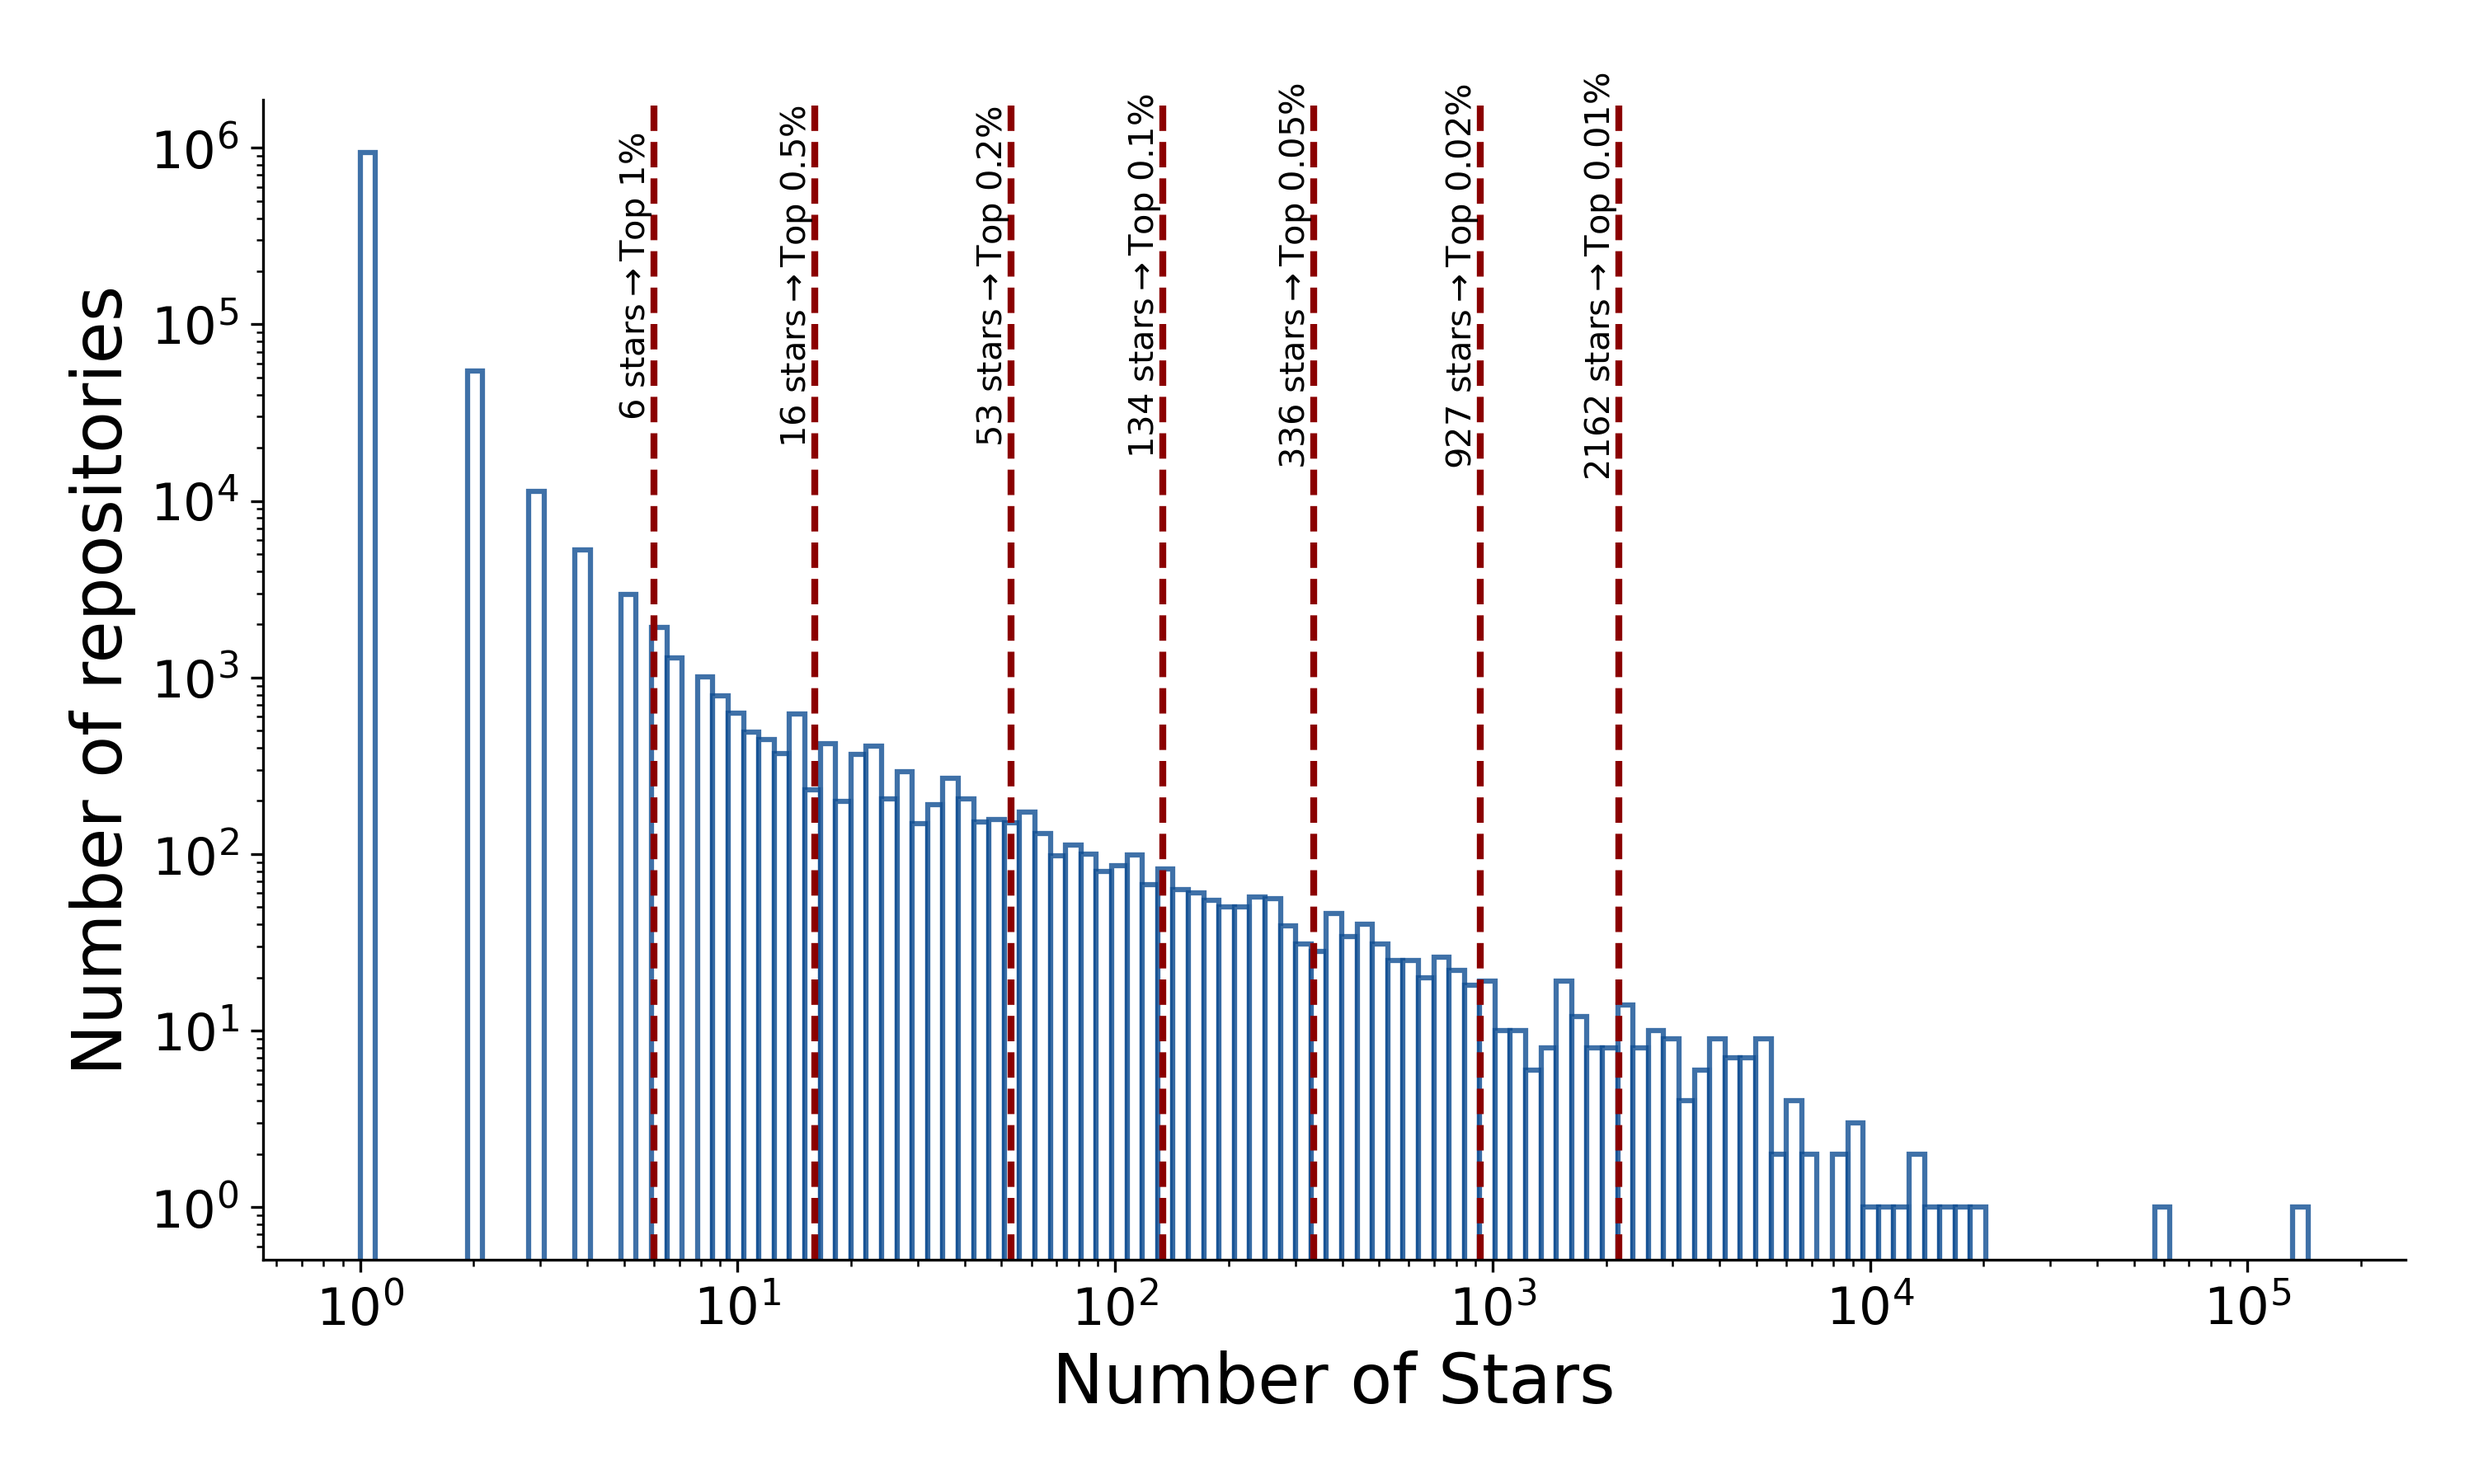
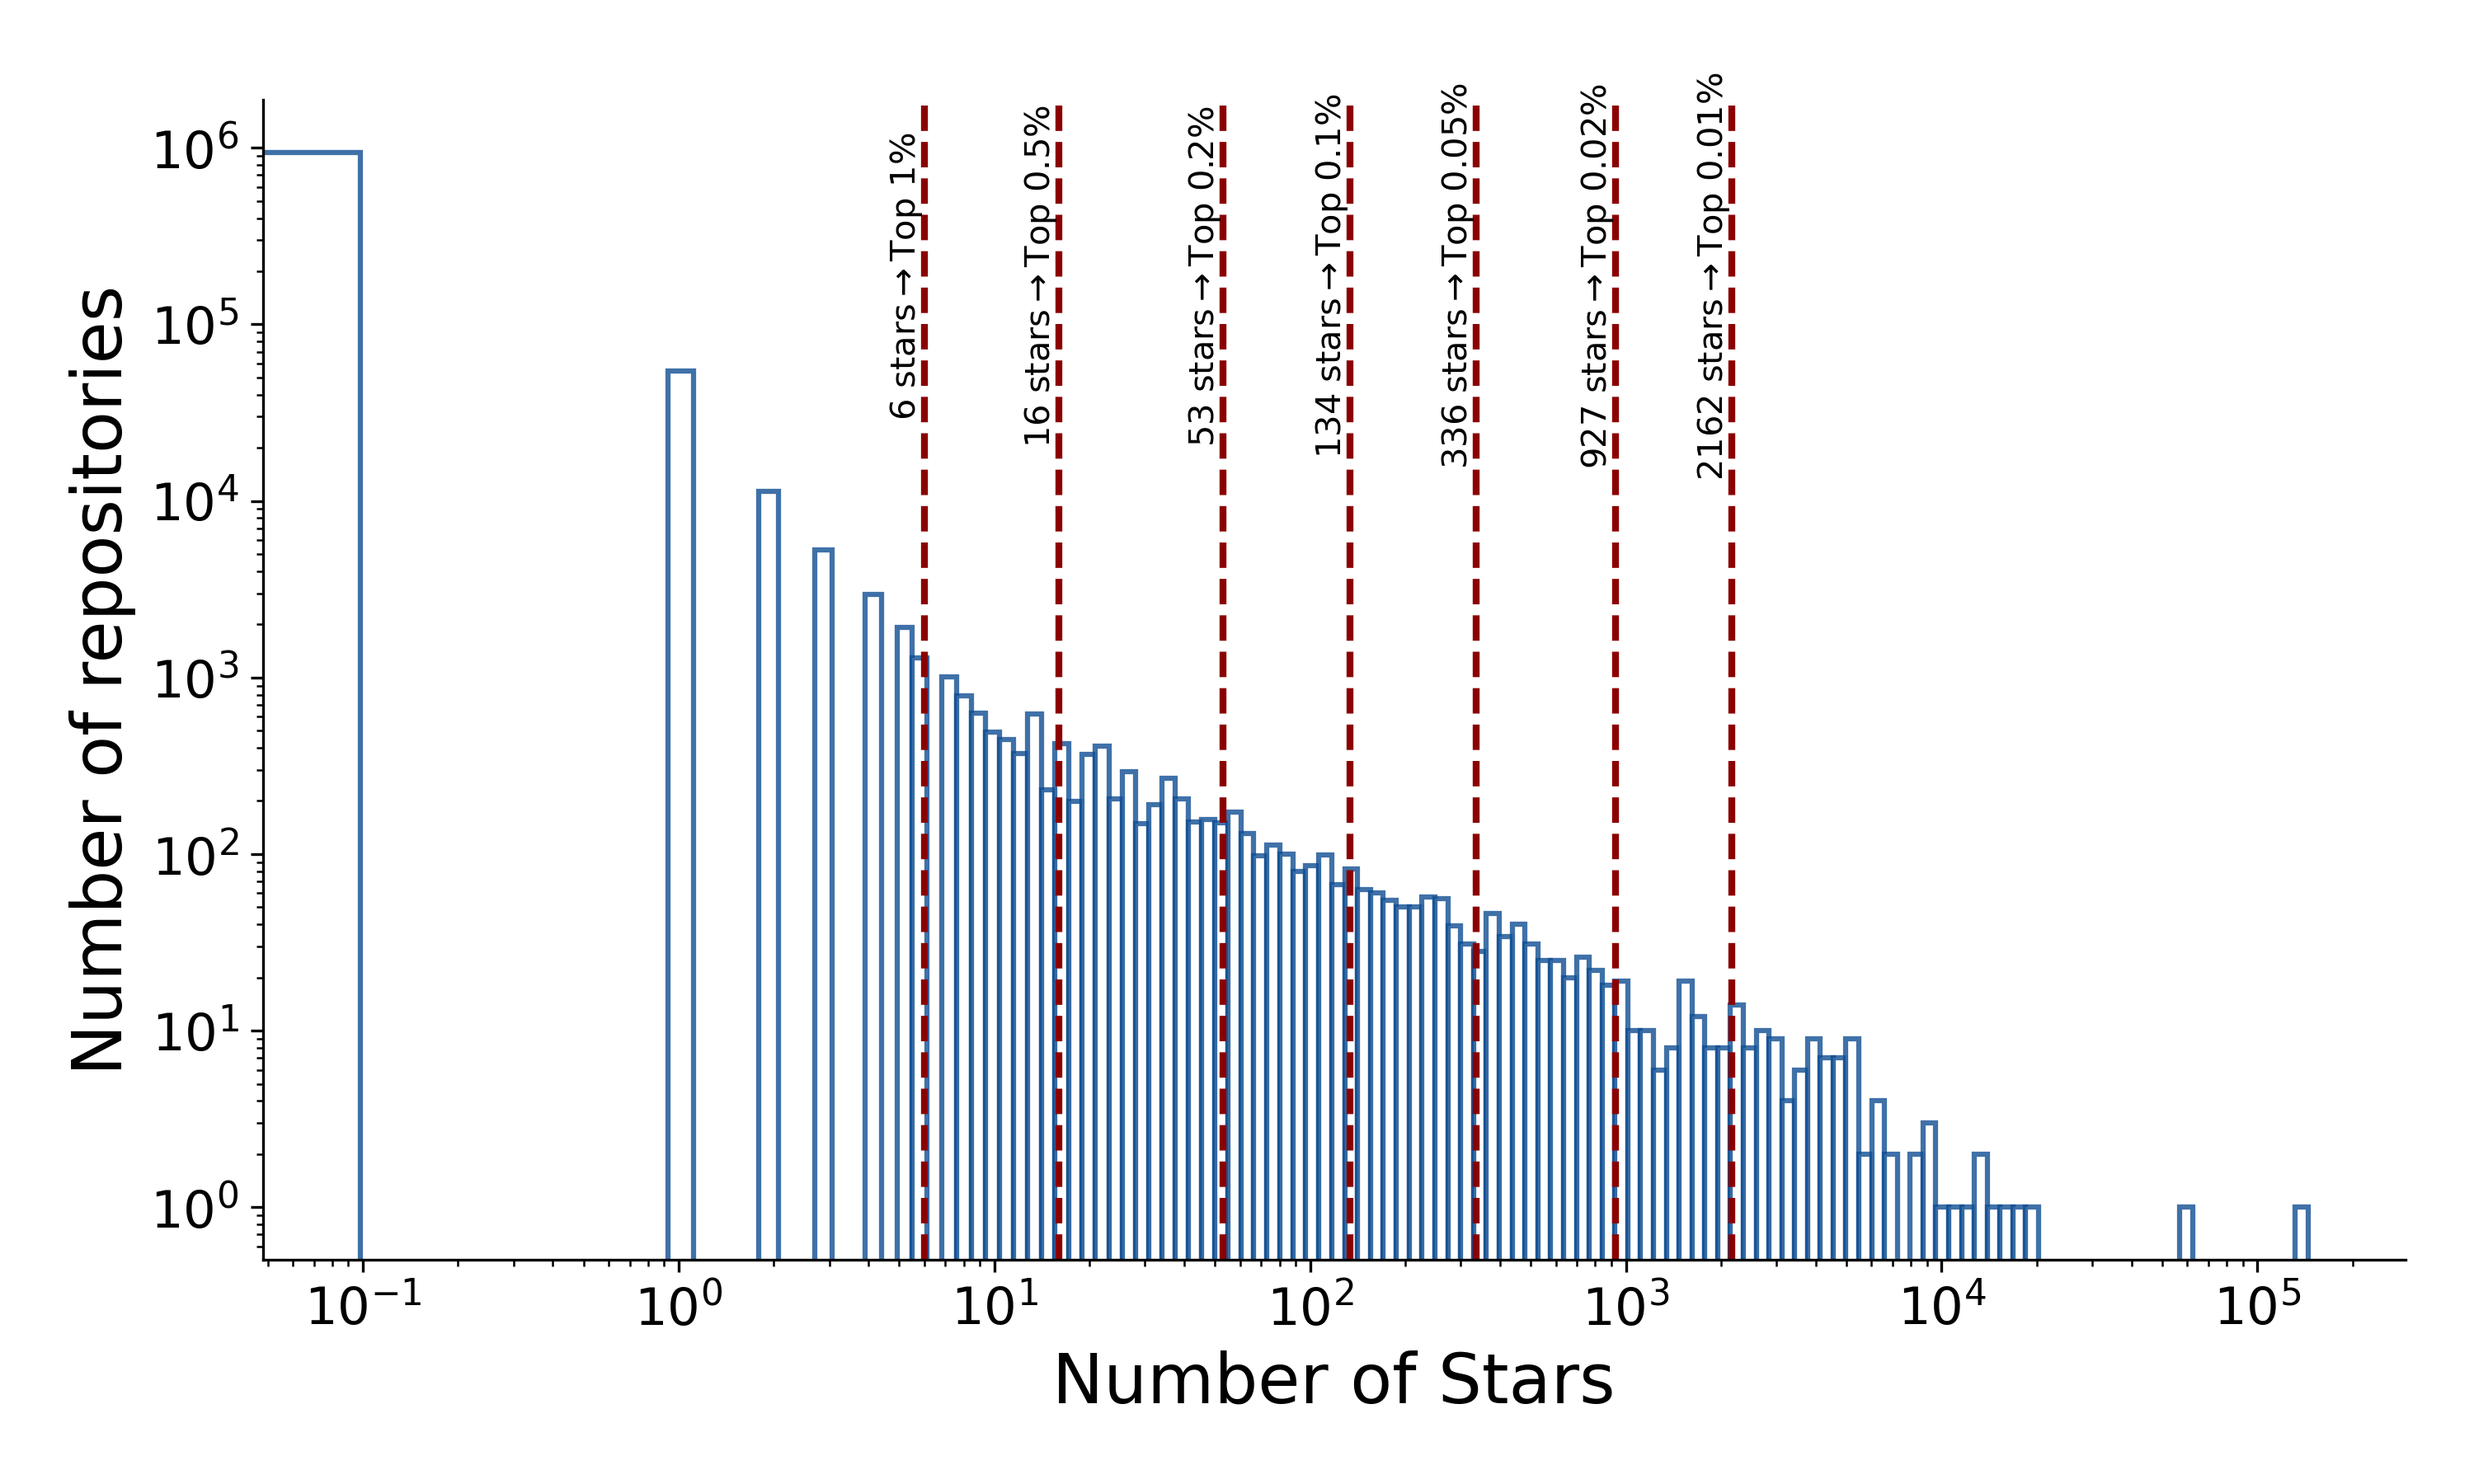
minor correction on plotting

diff --git a/plot_histogram.py b/plot_histogram.py
@@ -25,9 +25,8 @@ def plot_star_distribution(stars, save_path):
     ax.spines['right'].set_visible(False)
 
     stars_plus1 = stars + 1
-
-    bins = np.logspace(np.log10(stars_plus1.min()), np.log10(stars_plus1.max()), 128)
-    ax.hist(stars_plus1, bins=bins, color='white', edgecolor='#0F4D92', linewidth=1.5, alpha=0.8)
+    bins_plus1 = np.logspace(np.log10(stars_plus1.min()), np.log10(stars_plus1.max()), 128)
+    ax.hist(stars, bins=bins_plus1 - 1, color='white', edgecolor='#0F4D92', linewidth=1.5, alpha=0.8)
     ax.set_xscale('log')
     ax.set_yscale('log')
 
